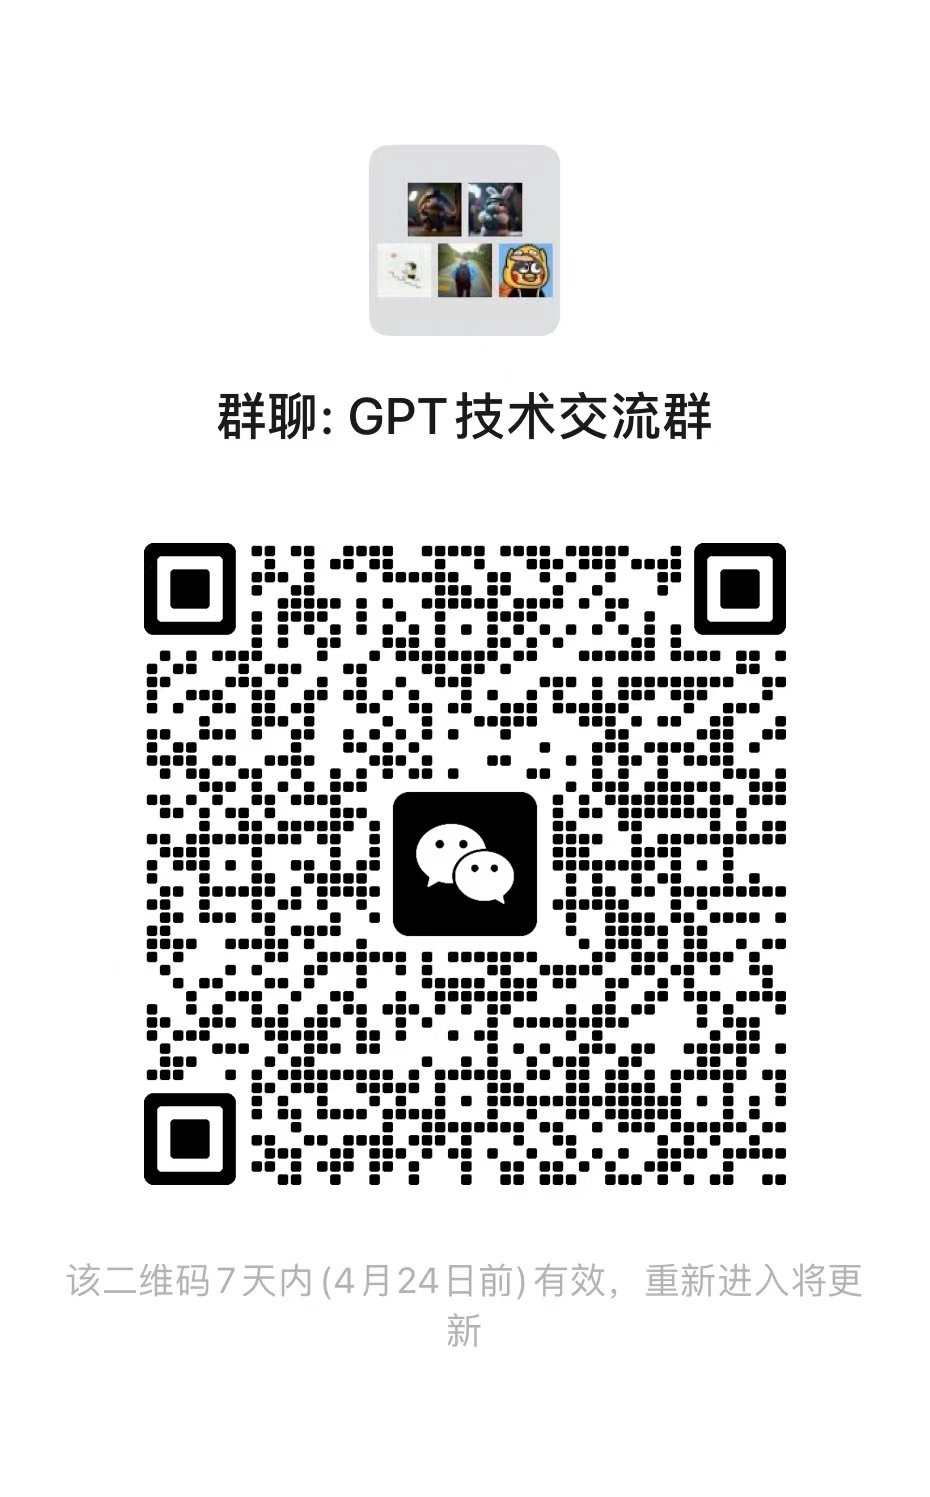
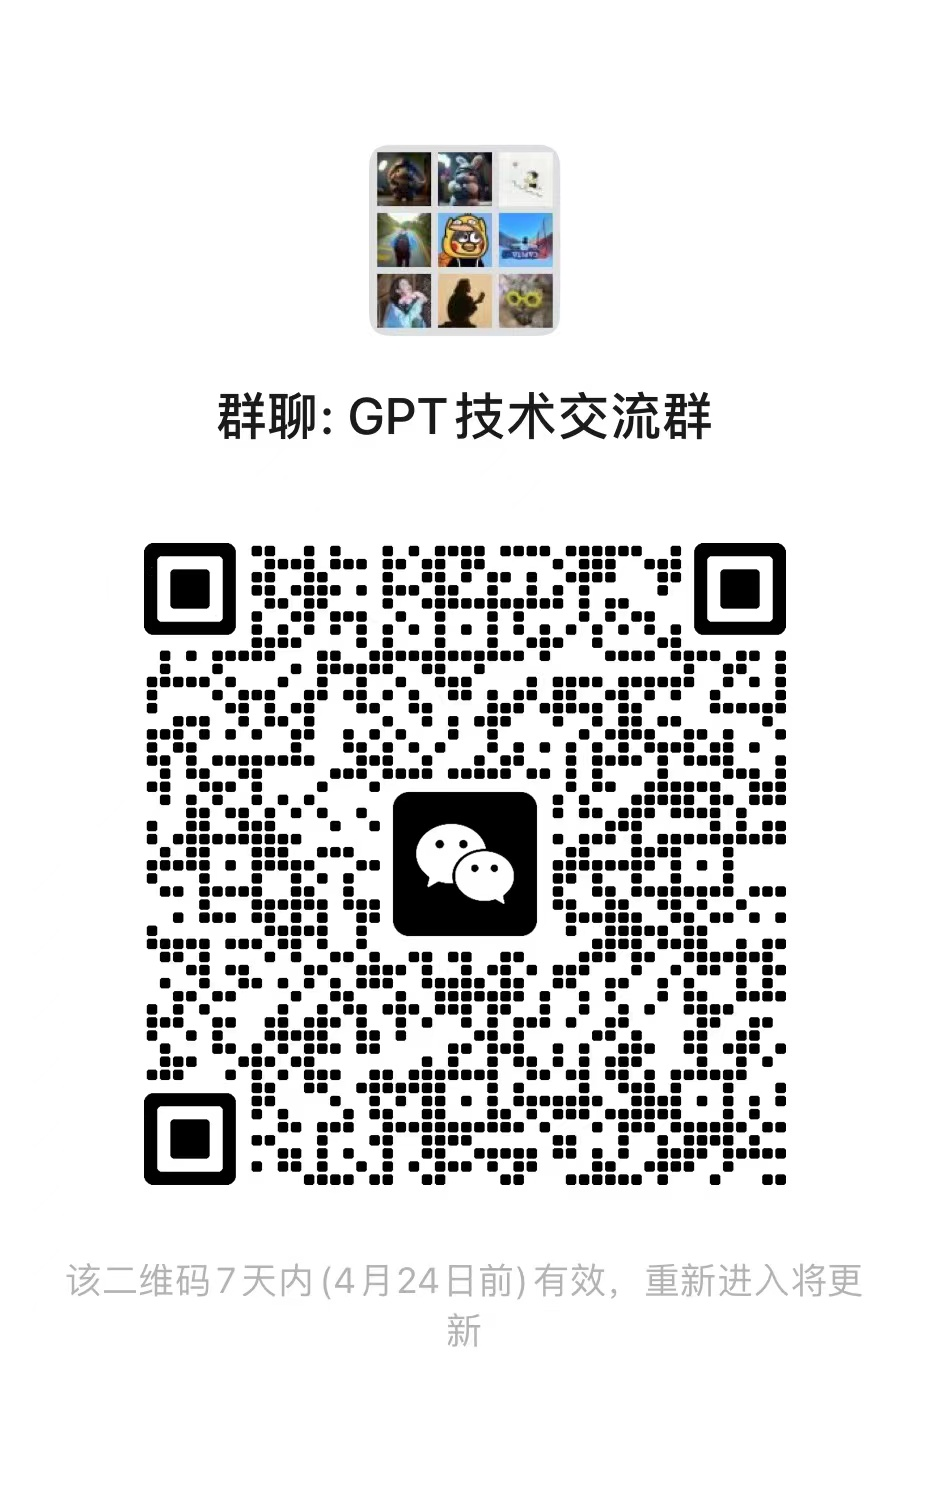
update star

diff --git a/README.md b/README.md
@@ -379,7 +379,7 @@
 --
 
 
-<img src='./images/qrcode.jpeg' width=20%  alt=""/><img src='./images/group_qrcode.jpeg' width=20%  alt=""/>
+<img src='./images/qrcode.jpeg' width=30%  alt=""/><img src='./images/group_qrcode.jpeg' width=30%  alt=""/>
 
 加群前先看： 
 
